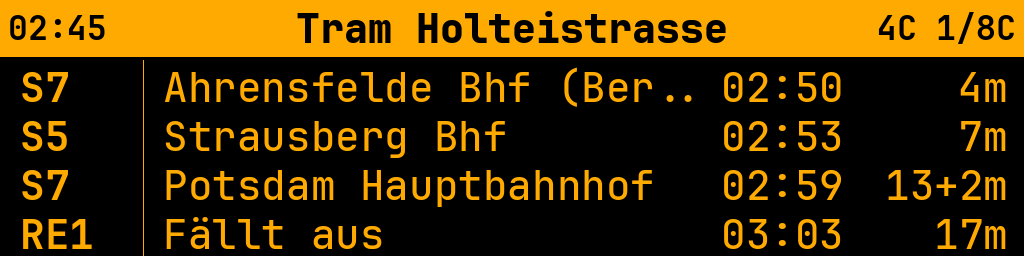
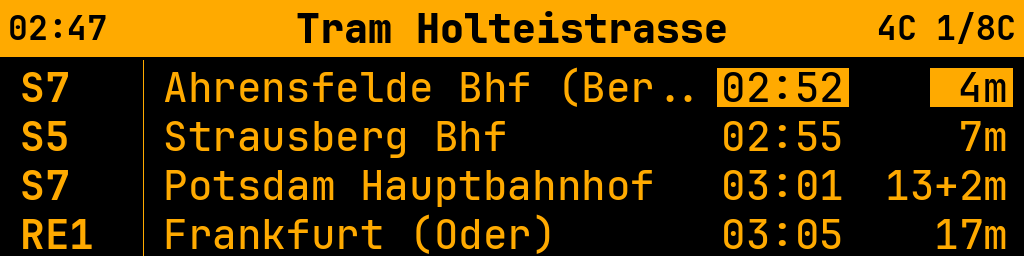
feat: add demo GIF generation with live API data and cancellation handling

diff --git a/generate_demo_gif.py b/generate_demo_gif.py
@@ -1,0 +1,157 @@
+"""Generate demo.gif with live API data, cancellation, and hurry-zone blinking."""
+
+import time as _time_mod
+from copy import deepcopy
+from datetime import datetime, timedelta, timezone
+from pathlib import Path
+
+from PIL import Image
+
+from infodisplay.api import BVGClient
+from infodisplay.config import load_config
+from infodisplay.models import Departure
+from infodisplay.renderer import DepartureRenderer, BLINK_PERIOD
+from infodisplay.weather import WeatherData
+
+# GIF parameters
+FRAME_MS = 220  # real playback speed per frame (ms)
+TIME_STEP = 0.15  # simulated seconds per frame
+STATION_DISPLAY_SECONDS = 6.0  # simulated seconds per station
+GIF_BLINK_PERIOD = 3.0  # slower blink for GIF readability
+
+# Load config
+config = load_config(cli_args=[])
+
+# Fetch live departures for each station
+client = BVGClient(config)
+station_data = []  # list of (name, walking_minutes, departures)
+
+for station_cfg in config.stations:
+    name = station_cfg.name or client.get_station_name(station_cfg.id)
+    deps = client.fetch_parsed_departures(station_cfg.id)
+
+    # Apply per-station line filters
+    if station_cfg.lines:
+        deps = [d for d in deps if d.line_name in station_cfg.lines]
+
+    # Take only show_items departures
+    deps = deps[: config.display.show_items]
+
+    print(f"  {name}: {len(deps)} departures")
+    for d in deps:
+        print(f"    {d.line_name} → {d.direction} in {d.minutes_until}m (cancelled={d.is_cancelled})")
+
+    station_data.append((name, station_cfg.walking_minutes, deps))
+
+# Inject a cancelled departure into the first station that has room
+if station_data:
+    name, wm, deps = station_data[0]
+    now = datetime.now(timezone.utc)
+    cancelled_dep = Departure(
+        line_name="RE1",
+        line_product="regional",
+        direction="Frankfurt (Oder)",
+        when=(now + timedelta(minutes=15)).isoformat(),
+        planned_when=(now + timedelta(minutes=15)).isoformat(),
+        delay_seconds=0,
+        platform="3",
+        remarks=[],
+        is_cancelled=True,
+    )
+    # Replace the last departure with the cancelled one
+    if len(deps) >= config.display.show_items:
+        deps[-1] = cancelled_dep
+    else:
+        deps.append(cancelled_dep)
+    station_data[0] = (name, wm, deps)
+    print(f"\n  Injected cancelled RE1 into '{name}'")
+
+# Also ensure at least one departure is in hurry zone for station 0
+# hurry zone = walking_minutes - 3 to walking_minutes
+name, wm, deps = station_data[0]
+hurry_low = max(0, wm - 3)
+has_hurry = any(
+    d.minutes_until is not None and hurry_low <= d.minutes_until <= wm and not d.is_cancelled
+    for d in deps
+)
+if not has_hurry and deps:
+    # Move the first non-cancelled departure into hurry zone
+    for d in deps:
+        if not d.is_cancelled:
+            now = datetime.now(timezone.utc)
+            target_min = wm - 1  # e.g. 4 min for walking_minutes=5
+            d.when = (now + timedelta(minutes=target_min)).isoformat()
+            d.planned_when = d.when
+            d.delay_seconds = 0
+            print(f"  Adjusted {d.line_name} to {target_min}m for hurry zone")
+            break
+
+# Mock weather
+mock_weather = WeatherData(
+    current_temp=4,
+    daily_low=1,
+    daily_high=8,
+    precip_next_12h=[0.0, 0.0, 0.1, 0.3, 0.5, 0.2, 0.0, 0.0, 0.0, 0.0, 0.0, 0.0],
+)
+
+# Create renderer
+import infodisplay.renderer as renderer_mod
+original_blink = renderer_mod.BLINK_PERIOD
+renderer_mod.BLINK_PERIOD = GIF_BLINK_PERIOD
+
+renderer = DepartureRenderer(
+    width=config.display.width,
+    height=config.display.height,
+    font_header=config.fonts.font_header,
+    font_main=config.fonts.font_main,
+    font_remark=config.fonts.font_remark,
+    station_name_size=config.fonts.station_name_size,
+    header_size=config.fonts.header_size,
+    departure_size=config.fonts.departure_size,
+    remark_size=config.fonts.remark_size,
+    show_remarks=config.display.show_remarks,
+    show_items=config.display.show_items,
+)
+
+# Generate frames
+frames = []
+fake_time = _time_mod.time()
+original_time = _time_mod.time
+
+# Patch time.time for blink/scroll control
+_time_mod.time = lambda: fake_time
+
+try:
+    for station_idx, (name, wm, deps) in enumerate(station_data):
+        # Reset scroll start for each station
+        renderer._scroll_start = fake_time
+        station_start = fake_time
+
+        # Render frames for this station
+        while fake_time - station_start < STATION_DISPLAY_SECONDS:
+            img, _ = renderer.render(
+                deps, name, wm, mock_weather, weather_page=station_idx,
+            )
+            frames.append(img.copy())
+            fake_time += TIME_STEP
+finally:
+    _time_mod.time = original_time
+    renderer_mod.BLINK_PERIOD = original_blink
+
+# Save GIF
+output_path = Path(__file__).resolve().parent / "assets" / "demo.gif"
+output_path.parent.mkdir(exist_ok=True)
+
+if len(frames) > 1:
+    frames[0].save(
+        str(output_path),
+        save_all=True,
+        append_images=frames[1:],
+        duration=FRAME_MS,
+        loop=0,
+    )
+else:
+    frames[0].save(str(output_path))
+
+print(f"\nGenerated {len(frames)} frames, {len(frames) * FRAME_MS / 1000:.1f}s total")
+print(f"Saved to: {output_path}")

diff --git a/src/infodisplay/renderer.py b/src/infodisplay/renderer.py
@@ -644,11 +644,25 @@ def run_render_test(config=None) -> str:
     else:
         renderer = DepartureRenderer()
     station_name = "S Savignyplatz (Berlin)"
+    walking_minutes = 5
     if config is not None and config.stations:
         station_name = (
             config.stations[0].name or f"Station {config.stations[0].id}"
         )
-    img, _ = renderer.render(departures, station_name, weather=mock_weather)
+        walking_minutes = config.stations[0].walking_minutes
+
+    # Force blink ON so the static image always shows hurry-zone highlighting
+    blink_on_time = 0.0  # 0.0 % BLINK_PERIOD < BLINK_PERIOD / 2 → blink ON
+    import time as _time_mod
+    _original_time = _time_mod.time
+    _time_mod.time = lambda: blink_on_time
+    try:
+        renderer._scroll_start = blink_on_time
+        img, _ = renderer.render(
+            departures, station_name, walking_minutes, mock_weather,
+        )
+    finally:
+        _time_mod.time = _original_time
 
     mode = config.display.mode if config is not None else "pygame"
     if mode == "ssd1322":
